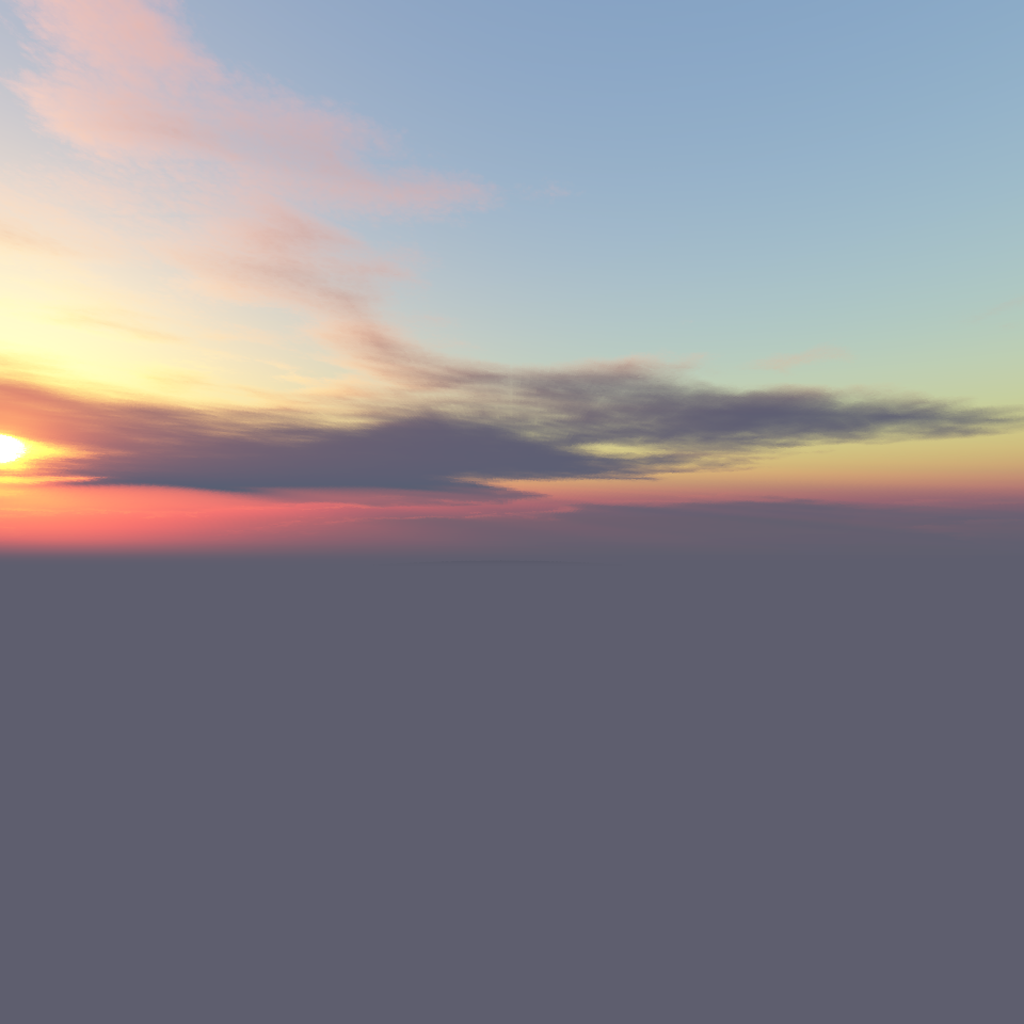
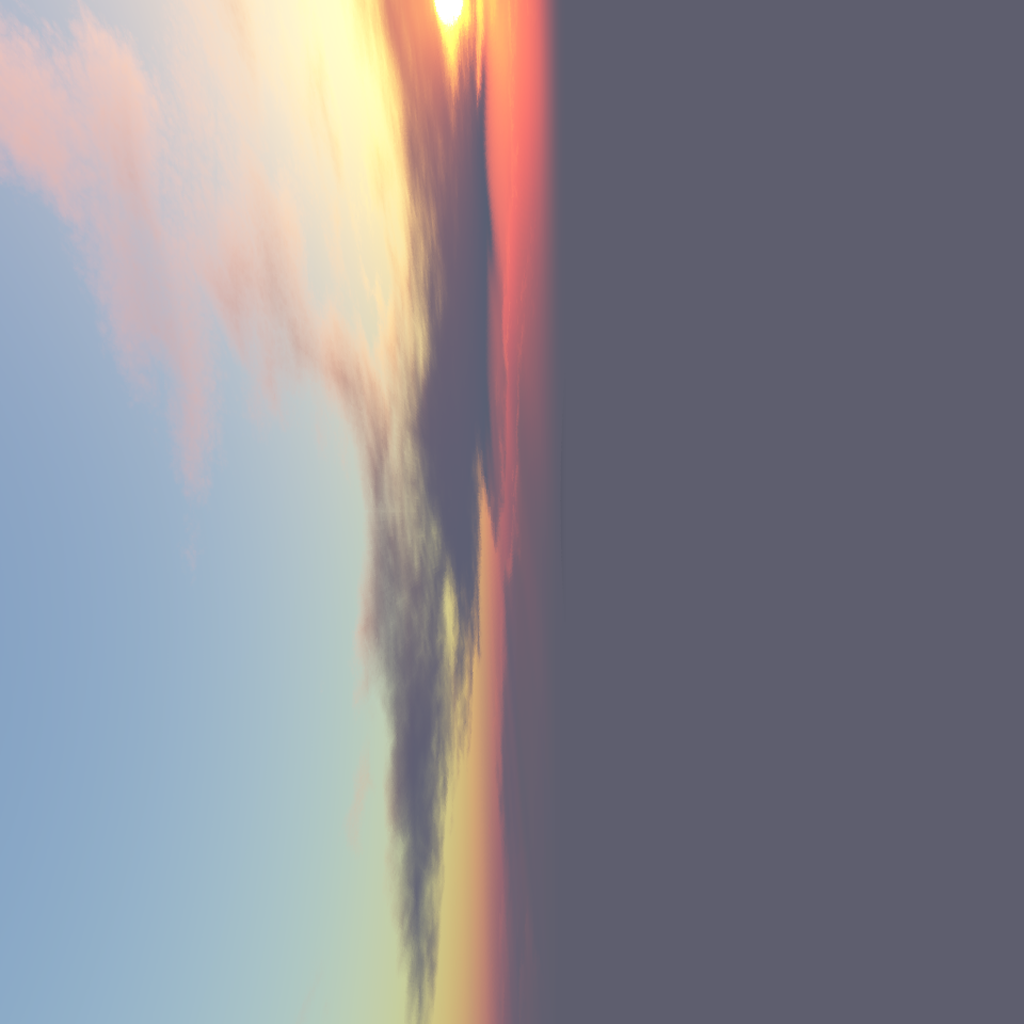
cubemap

diff --git a/js/environment.js b/js/environment.js
@@ -78,23 +78,28 @@ function Environment(manager) {
 
     //DRAW PLANE
     setInterval($.proxy(function() {
-        console.log(this.manager.plane);
+//		console.log(this.manager.plane);
     }, this), 50);
     
-    //Cube mapping
-    //  var urls = ["images/posx.png", "images/negx.png",
-    //	"images/posy.png", "images/negy.png",
-    //	"images/posz.png", "images/negz.png"];
-    //  var textureCube = THREE.ImageUtils.loadTextureCube(urls);
-    //	var shader = THREE.ShaderLib["cube"];
-    //	var uniforms = THREE.UniformsUtils.clone(shader.uniforms);
-    //	uniforms['tCube'].texture= textureCube;
-    //	var skyboxmaterial = new THREE.ShaderMaterial({
-    //		fragmentShader: shader.fragmentShader,
-    //		vertexShader: shader.vertexShader,
-    //		uniforms: uniforms
-    //	});
-    //	var skyboxgeometry = new THREE.CubeGeometry(100000, 100000, 100000, 1, 1, 1, null, true);
-    //	var skyboxMesh = new THREE.Mesh(skyboxgeometry, skyboxmaterial);
-    //	manager.scene.add(skyboxMesh);
+	//Cube mapping
+	var urls = ["images/posx.png", "images/negx.png",
+	"images/posy.png", "images/negy.png",
+	"images/posz.png", "images/negz.png"];
+	var materials = [];
+	for(var i in urls){
+		materials.push(
+			new THREE.MeshBasicMaterial({
+				map: THREE.ImageUtils.loadTexture(urls[i]),
+				side: THREE.DoubleSide,
+				depthWrite: false
+			})
+		);
+	}
+	this.skybox = new THREE.Mesh( new THREE.CubeGeometry(1000, 1000, 1000), new THREE.MeshFaceMaterial( materials));
+	this.manager.scene.add( this.skybox );
+	this.step = function(step){
+		if(manager.plane){
+			this.skybox.position = this.manager.plane.position.toThree();
+		}
+	}
 }

diff --git a/js/manager.js b/js/manager.js
@@ -14,6 +14,7 @@ function Manager(){
 	this.init3d();
 	
 	this.environment = new Environment(this);
+	this.objects.push(this.environment);
 	
 	this.lastDate = new Date();
 	
